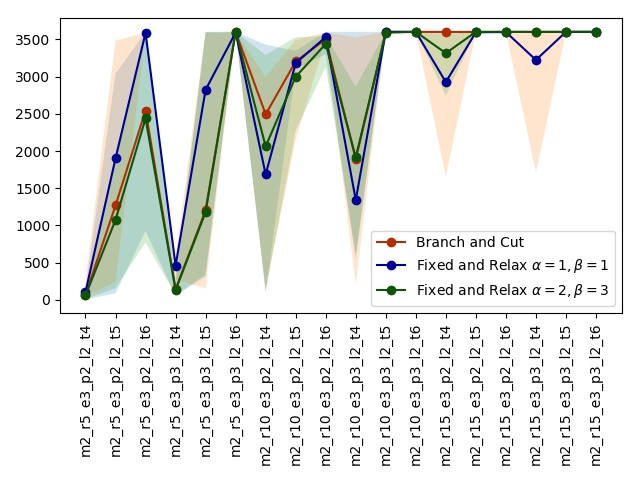
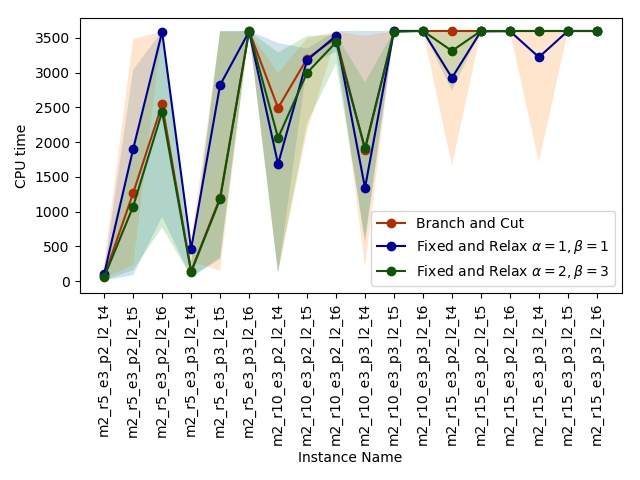
time and value figures for new data: axis label added

diff --git a/valuevisualization.py b/valuevisualization.py
@@ -5,6 +5,7 @@ import math
 import argparse
 import pandas as pd
 import matplotlib.pyplot as plt
+from sympy import true
 
 class ItemData:
     def __init__(self, best, second, rest, label):
@@ -24,7 +25,7 @@ def create_parser():
     parser.add_argument("-d", "--datafile", type = str, default = "data1.csv")
     return parser
 
-def load_algorithms_performace(customFrame):
+def load_algorithms_performace(customFrame, countNAN=True):
     performance = {
         'BandC':ItemData(0,0,0, "Branch and Cut"),
         'FandR11':ItemData(0,0,0, "Fixed and Relax\n"+r"$\alpha=1, \beta=1$"), 
@@ -47,7 +48,7 @@ def load_algorithms_performace(customFrame):
                 performance[k].best += 1
             elif diff[k] <= 0.5*minvalue:
                 performance[k].second += 1
-            else:
+            elif countNAN or not math.isinf(diff[k]):
                 performance[k].rest +=1
     return performance
 
@@ -63,10 +64,12 @@ def plot_performance(performanceData, horizontal=True):
         plt.bar(ind, best, color=["#b32d00", "#000099", "#0d5409"], edgecolor='white', align='center')
         plt.bar(ind, second, bottom=best, color=["#ff531a", "#0000ff", "#398e34"], hatch="/", edgecolor='white', align='center')
         plt.bar(ind, rest, bottom=restbnt, color=["#ffc6b3","#b3b3ff", "#9dd99a"], edgecolor='white', align='center')
+        plt.ylabel("Number of Instances Solved")
     else:
         plt.barh(ind, best, color=["#b32d00", "#000099", "#0d5409"], edgecolor='white', align='center')
         plt.barh(ind, second, left=best, color=["#ff531a", "#0000ff", "#398e34"], hatch="/", edgecolor='white', align='center')
         plt.barh(ind, rest, left=restbnt, color=["#ffc6b3","#b3b3ff", "#9dd99a"], edgecolor='white', align='center')
+        plt.xlabel("Number of Instances Solved")
 
     #plt.xticks([])
     # colors = {'Branch and Cut':'#b32d00', r'Fixed and Relax $\alpha=1, \beta=1$':'#000099', r'Fixed and Relax $\alpha=2, \beta=3$':"#0d5409"}         
@@ -87,7 +90,10 @@ def main():
     #mydata = pd.read_csv(args.datafile, usecols=['Instance','Branch_and_Cut_Objective_Value', 'Status_obj', 'Fixed_and_Relax_alpha1beta1_Objective_Value', 'Fixed_and_Relax_alpha2beta3_Objective_Value'])
     mydata = pd.read_csv(args.datafile, usecols=['Branch_and_Cut_Objective_Value', 'Fixed_and_Relax_alpha1beta1_Objective_Value', 'Fixed_and_Relax_alpha2beta3_Objective_Value'])
     myframe = pd.DataFrame(mydata)
-    performance = load_algorithms_performace(myframe)
+    performance = load_algorithms_performace(myframe, True)
+    plot_performance(performance, horizontal=True)
+    plot_performance(performance, horizontal=False)
+    performance = load_algorithms_performace(myframe, False)
     plot_performance(performance, horizontal=True)
     plot_performance(performance, horizontal=False)
 

diff --git a/timevisualization.py b/timevisualization.py
@@ -71,6 +71,8 @@ def plot_time_performance(performanceData):
     plt.fill_between(testid, FandR23_min, FandR23_max, alpha=0.2)
     plt.legend()
     plt.xticks(testid, testnames, rotation='vertical')
+    plt.xlabel("Instance Name")
+    plt.ylabel("CPU time")
     plt.tight_layout()
     plt.show()
 
